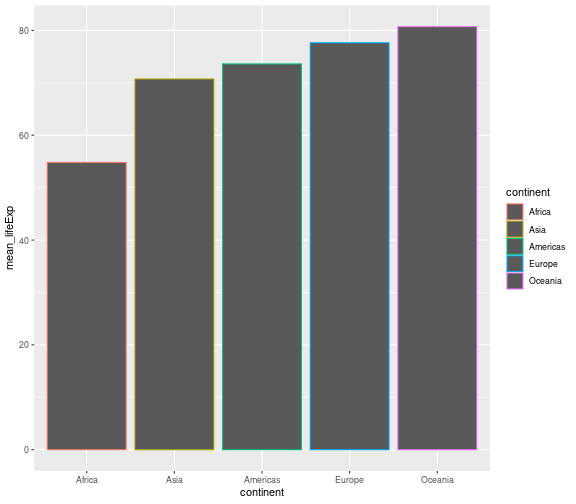
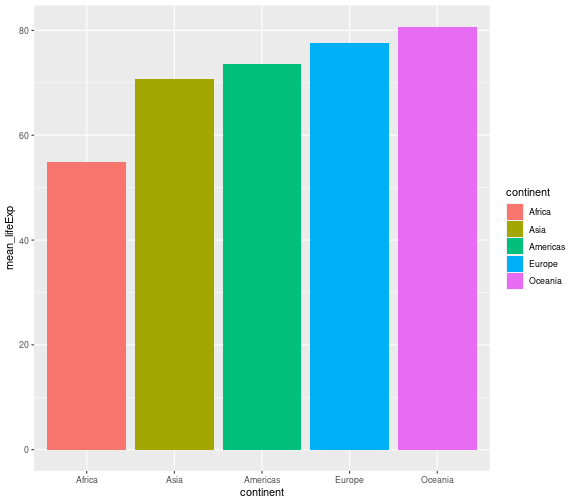
Remove superfluous fill=continent in gapminder3 chunk

diff --git a/index.html b/index.html
@@ -996,7 +996,7 @@ gap_07_means %&gt;%
 gap_07_means %&gt;%
   ggplot(aes(x = continent, y = mean_lifeExp)) +
   geom_col() +
-* aes(fill = continent)
+* aes(color = continent)
 ```
 ]
  
@@ -1019,35 +1019,12 @@ gap_07_means %&gt;%
 gap_07_means %&gt;%
   ggplot(aes(x = continent, y = mean_lifeExp)) +
   geom_col() +
-* aes(color = continent)
-```
-]
- 
-.panel2-gapminder3-rotate[
-![](index_files/figure-html/gapminder3_rotate_02_output-1.png)&lt;!-- --&gt;
-]
-
----
-count: false
- 
-### Gapminder
-.panel1-gapminder3-rotate[
-
-```r
-gap_07_means %&gt;%
-  arrange(mean_lifeExp) %&gt;%
-  mutate(continent = fct_inorder(continent)) -&gt;
-  gap_07_means
-
-gap_07_means %&gt;%
-  ggplot(aes(x = continent, y = mean_lifeExp)) +
-  geom_col() +
 * aes(fill = continent)
 ```
 ]
  
 .panel2-gapminder3-rotate[
-![](index_files/figure-html/gapminder3_rotate_03_output-1.png)&lt;!-- --&gt;
+![](index_files/figure-html/gapminder3_rotate_02_output-1.png)&lt;!-- --&gt;
 ]
 
 &lt;style&gt;
